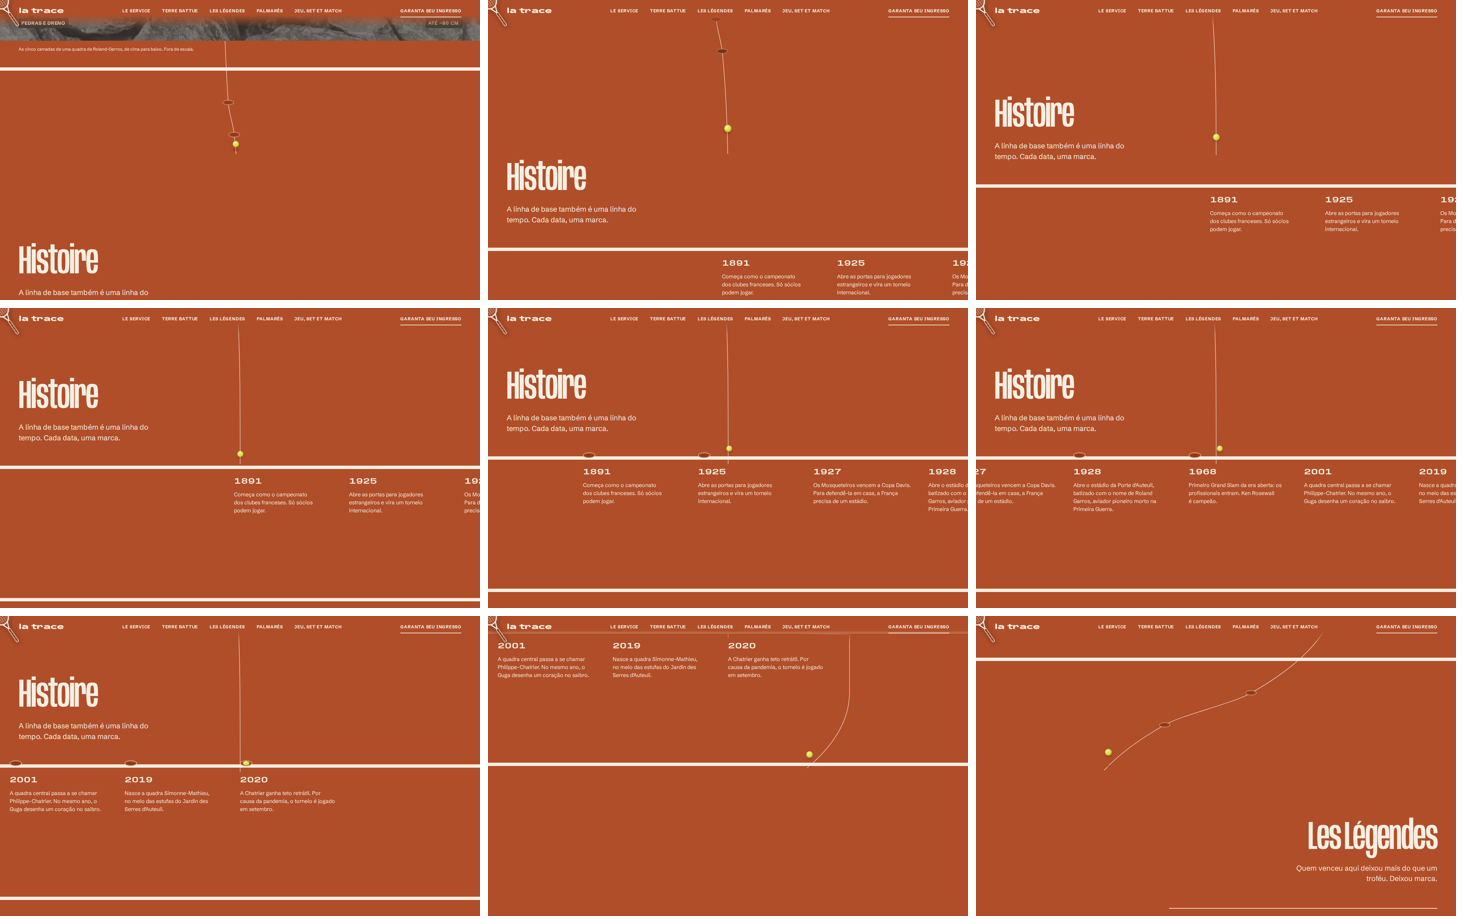
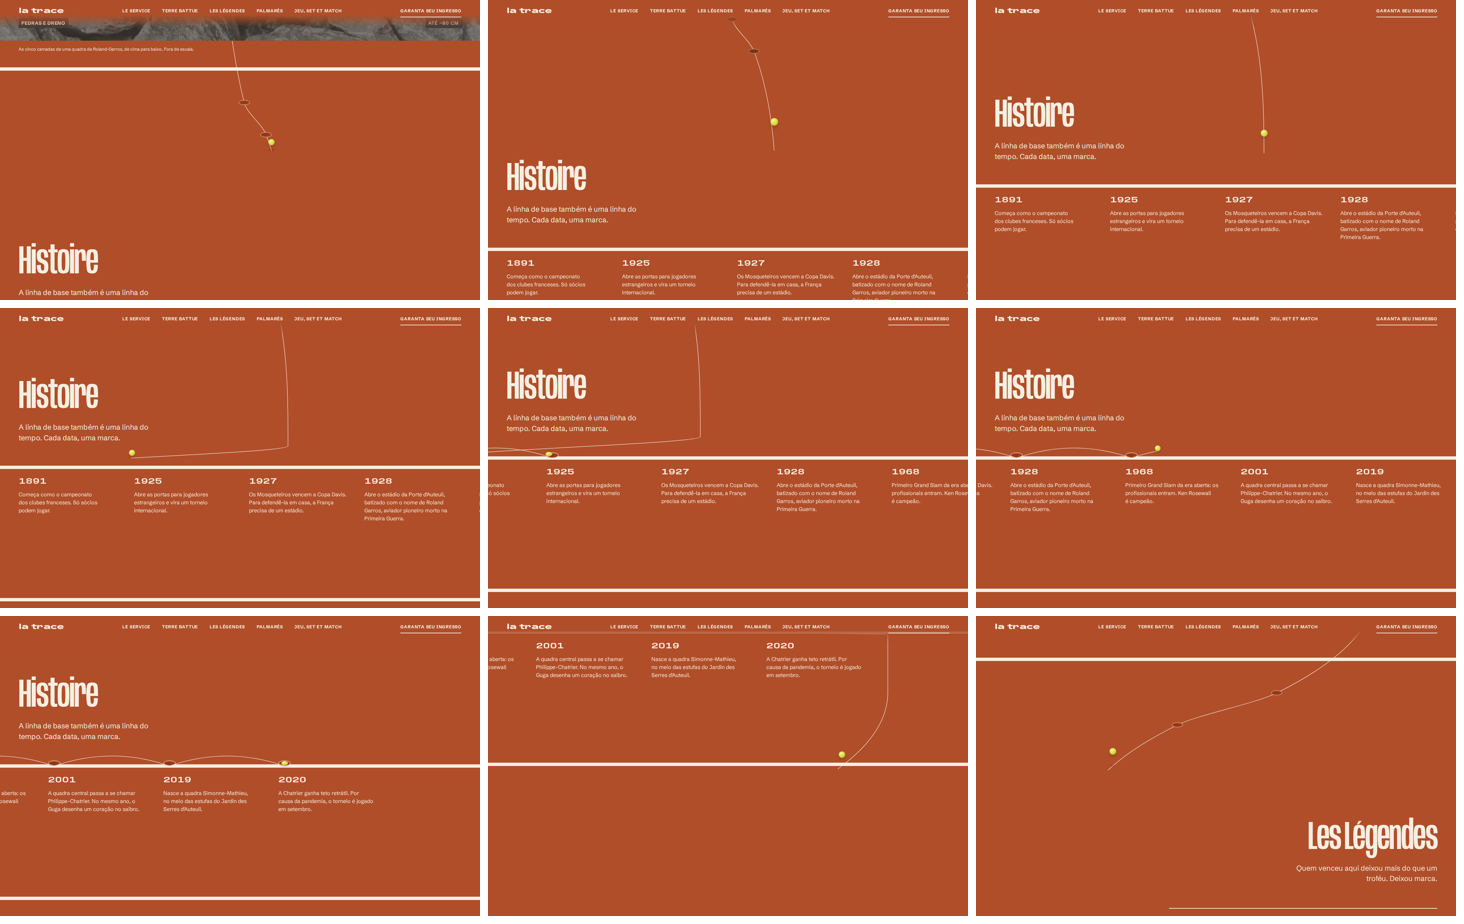
fix: Histoire volta ao layout antigo, com o rastro da chegada e dos pulos correndo junto com a linha

diff --git a/src/extras.js b/src/extras.js
@@ -28,10 +28,10 @@ function hopAlong(section, ball, dots, f, axis) {
 }
 
 // posição de um elemento nas coordenadas da seção (medidas de layout: não mudam com o translate da linha)
-function localOf(el, section) {
+function localOf(el, ancestor) {
   let x = 0;
   let y = 0;
-  for (let node = el; node && node !== section; node = node.offsetParent) {
+  for (let node = el; node && node !== ancestor; node = node.offsetParent) {
     x += node.offsetLeft;
     y += node.offsetTop;
   }
@@ -53,14 +53,42 @@ export function runTimeline(section) {
   ball.className = 'court__ball timeline__ball';
   ball.setAttribute('aria-hidden', 'true');
   ball.dataset.timelineBall = '';
-  // a entrada e a saída do traço, desenhadas por cima da cena (o traço do rali corre por trás dela)
+  // O rastro da bola na cena: a chegada, os arcos de cada pulo e a saída. Mora dentro da linha do tempo,
+  // então corre para a esquerda junto com as datas no scroll lateral (o traço do rali corre por trás da cena).
   const svgNS = 'http://www.w3.org/2000/svg';
   const trace = document.createElementNS(svgNS, 'svg');
   trace.classList.add('histoire__trace');
   trace.setAttribute('aria-hidden', 'true');
   const [entryPath, exitPath] = [0, 1].map(() => trace.appendChild(document.createElementNS(svgNS, 'path')));
-  section.append(trace, ball);
+  const hops = dots.slice(1).map(() => trace.appendChild(document.createElementNS(svgNS, 'path')));
+  track.append(trace);
+  section.append(ball);
   section.dataset.dock = '';
+
+  // os arcos dos pulos, nas coordenadas da linha: a mesma parábola que a bola faz em hopAlong
+  // (x linear e a altura 4t(1-t)·lift é uma Bézier quadrática com o controle a 2·lift)
+  let hopLengths = [];
+  function layoutHops(axis) {
+    const lift = axis === 'x' ? 30 : 18;
+    const c = dots.map((dot) => {
+      const d = localOf(dot, track);
+      return { x: d.x + d.width / 2, y: d.y };
+    });
+    hopLengths = hops.map((path, i) => {
+      const [a, b] = [c[i], c[i + 1]];
+      const control = axis === 'x' ? { x: (a.x + b.x) / 2, y: a.y - 2 * lift } : { x: a.x + 2 * lift, y: (a.y + b.y) / 2 };
+      path.setAttribute('d', `M${a.x},${a.y} Q${control.x},${control.y} ${b.x},${b.y}`);
+      return path.getTotalLength();
+    });
+    drawHops();
+  }
+  let drawnTo = 0; // o rastro dos pulos fica: só cresce
+  function drawHops() {
+    hops.forEach((path, i) => {
+      const length = hopLengths[i] || 0;
+      path.style.strokeDasharray = `${length * gsap.utils.clamp(0, 1, drawnTo - i)} ${length + 1}`;
+    });
+  }
 
   // as datas são marcas: nascem quando a bola toca nelas
   gsap.set(dots, { yPercent: -50, scale: 0 });
@@ -78,6 +106,10 @@ export function runTimeline(section) {
     const n = dots.length - 1;
     const clamped = gsap.utils.clamp(0, n, f);
     hopAlong(section, ball, dots, clamped, axis);
+    if (clamped > drawnTo) {
+      drawnTo = clamped;
+      drawHops();
+    }
     for (let i = reached + 1; i <= Math.floor(clamped + 0.06); i++) touch(i);
     reached = Math.max(reached, Math.floor(clamped + 0.06));
   }
@@ -87,16 +119,30 @@ export function runTimeline(section) {
     return { x: d.x + d.width / 2, y: d.y };
   };
   const headBottom = () => localOf(head, section).y + head.offsetHeight;
-  const overlay = { trace, entryPath, exitPath, ball };
+  // onde termina o texto do título e da frase (o bloco ocupa a largura toda; o texto, não)
+  const headTextRight = () => {
+    const origin = section.getBoundingClientRect();
+    const range = document.createRange();
+    range.selectNodeContents(head);
+    return Math.max(...[...range.getClientRects()].map((r) => r.right - origin.left));
+  };
+  const trackAt = () => localOf(track, section);
 
   gsap.matchMedia().add('(max-width: 720px)', () => {
     const lastIndex = dots.length - 1;
     section.rallyDock = {
       el: section,
-      overlay,
+      overlay: {
+        trace,
+        entryPath,
+        exitPath,
+        ball,
+        shift: { entry: () => ({ x: -trackAt().x, y: -trackAt().y }), exit: () => ({ x: -trackAt().x, y: -trackAt().y }) },
+      },
       frame: () => section,
       total: () => 0,
       points: () => {
+        layoutHops('y');
         const first = dotAt(0);
         const last = dotAt(lastIndex);
         const trackBox = localOf(track, section);
@@ -137,18 +183,28 @@ export function runTimeline(section) {
     const lastIndex = dots.length - 1;
     section.rallyDock = {
       el: section,
-      overlay,
+      overlay: {
+        trace,
+        entryPath,
+        exitPath,
+        ball,
+        // a saída é desenhada com a linha já no fim do scroll lateral
+        shift: { entry: () => ({ x: -trackAt().x, y: -trackAt().y }), exit: () => ({ x: -trackAt().x + distance(), y: -trackAt().y }) },
+      },
       frame: () => (section.parentElement.classList.contains('pin-spacer') ? section.parentElement : section),
       total: () => st.end - st.start,
       points: () => {
+        layoutHops('x');
         const first = dotAt(0);
         const last = dotAt(lastIndex);
         const lastItem = localOf(items[lastIndex], section);
         const endX = last.x - distance();
-        // sai pela linha, para a direita do texto da última data, e só então desce
+        // sai correndo pelo trecho de linha depois de 2020, para a direita do texto dela, e só então desce
         const outX = Math.min(section.clientWidth - 60, endX + items[lastIndex].offsetWidth);
+        // chega pela direita do título e da frase e desce pelo vão entre o texto e a linha até 1891
+        const inX = Math.min(section.clientWidth * 0.6, headTextRight() + 48);
         return {
-          entry: [{ x: first.x, y: headBottom() + 8 }, { ...first, contact: true }],
+          entry: [{ x: inX, y: headBottom() + 8 }, { ...first, contact: true }],
           exit: [{ x: endX, y: last.y, contact: true }, { x: outX, y: last.y + 8 }, { x: outX, y: lastItem.y + lastItem.height + 16 }],
         };
       },

diff --git a/src/rally.js b/src/rally.js
@@ -159,11 +159,14 @@ export function createRally({ container, start }) {
     });
 
     for (const d of docks) {
-      const { trace, entryPath, exitPath } = d.dock.overlay;
-      trace.setAttribute('viewBox', `0 0 ${d.dock.el.clientWidth} ${d.dock.el.clientHeight}`);
-      for (const [p, off] of [[entryPath, d.offIn], [exitPath, d.offOut]]) {
+      const { trace, entryPath, exitPath, shift } = d.dock.overlay;
+      const host = trace.parentElement;
+      trace.setAttribute('viewBox', `0 0 ${host.offsetWidth} ${host.offsetHeight}`);
+      // o desenho pode morar num elemento que se move dentro da cena (a linha do tempo): shift leva das
+      // coordenadas da cena para as dele, na entrada e na saída
+      for (const [p, off, s] of [[entryPath, d.offIn, shift.entry()], [exitPath, d.offOut, shift.exit()]]) {
         p.setAttribute('d', rally.d);
-        p.setAttribute('transform', `translate(0 ${-off})`);
+        p.setAttribute('transform', `translate(${s.x} ${s.y - off})`);
       }
       d.lin = lengthForY(d.inY);
       d.lout = lengthForY(d.outY);

diff --git a/src/style.css b/src/style.css
@@ -671,9 +671,8 @@ h2 {
   display: flex;
   width: max-content;
   margin: 0;
-  /* a primeira data começa no meio da tela, onde a bola pousa; a última termina no meio também,
-     com espaço à direita para a bola sair */
-  padding: 0 max(var(--gutter), calc(50vw - var(--step))) 0 calc(50vw - var(--gutter) - 1.15rem);
+  /* depois da última data a linha continua um trecho, por onde a bola sai */
+  padding: 0 max(var(--gutter), 18vw) 0 0;
   list-style: none;
   will-change: transform;
 }

diff --git a/processo/prompts/2026-10-10-31-histoire-ajuste.md b/processo/prompts/2026-10-10-31-histoire-ajuste.md
@@ -1,0 +1,29 @@
+# Prompt 31 · ajuste da Histoire (ticket 23, segunda versão)
+
+**Data:** 2026-10-10 · **Ferramenta:** Claude Code (Claude Opus 5.5)
+
+## O que eu pedi (literal)
+> nao gostei de como ficou a Histoire, gostava qde como era ante, so queria mudar que a bola chegasse ate la, e saisse de la, com seu rastro ficando para tras juto ao scroll lateral
+
+## Perguntas da IA e minhas respostas
+- **O que volta a ser como antes?** Só **1891 na esquerda** (o layout antigo). As datas que nascem como marcas e a espera na 1ª e na última data ficam.
+- **O que deixa rastro?** **A chegada e os pulos** (recomendação da IA): o traço da chegada e um arco de giz a cada pulo, tudo correndo junto com a linha.
+- **Por onde a bola sai depois de 2020?** **Um pouco mais de linha** (recomendação da IA): a linha continua um trecho depois de 2020, por onde a bola sai.
+
+## O que a IA fez
+- **Layout:** voltou ao de antes. 1891 fica à esquerda, embaixo do título, e a linha começa como era. No fim, a linha ganhou um trecho a mais (18% da tela) depois de 2020.
+- **O rastro mora dentro da linha do tempo:**
+  - a chegada (o traço desce pela direita do título e varre o vão até 1891) e os arcos dos pulos correm para a esquerda **junto com as datas** no scroll lateral;
+  - cada arco tem a mesma parábola que a bola faz no pulo. Os arcos ficam desenhados depois que a bola passa, como as marcas.
+- **Saída:** em 2020 a bola corre pelo trecho de linha a mais, passa à direita do texto, desce, e o traço segue até Les Légendes.
+- **No celular:** a mesma ideia na linha vertical, com os arcos dos pulos ao lado da linha.
+- **Testes:**
+  - os 3 da Histoire continuam valendo e passam sem mudança: uma bola só, parada nas pontas, e o traço sem cruzar texto;
+  - total: 50 E2E e 20 unitários.
+- **Fluidez:** no trecho da Histoire, 60 fps a 4x de CPU.
+- Evidências refeitas em `processo/evidencias/23/` (`desktop-sequencia.png`, `mobile-sequencia.png`).
+
+## Minha avaliação
+<!-- Preencher -->
+
+-

diff --git a/processo/correcoes-de-rota.md b/processo/correcoes-de-rota.md
@@ -160,3 +160,12 @@ Registro do que mudou de direção, saiu errado ou foi corrigido ao revisar a en
 - **O que a IA fez:** sem movimento, a Histoire não prende e as datas ficam em várias linhas, então o caminho "entrar pela 1ª e sair pela última" não existe. Nesse modo, o traço segue passando por trás da seção, como na rodada 2, e as datas já aparecem como marcas feitas.
 - **Por quê:** é um estado estático que continua legível e sem duas bolas. Inventar uma bola parada no meio de uma grade de datas exigiria um caminho só para esse modo.
 - **Fica para eu revisar** se quiser a bola visível ali.
+
+## #29 · Não gostei da Histoire nova e pedi para voltar ao layout antigo (2026-10-10)
+- **O que a IA tinha feito no ticket 23:** levou 1891 para o meio da tela, para o traço descer direto até a data, e os pulos não deixavam rastro.
+- **Minha reação:** "gostava de como era antes". Eu só queria que a bola chegasse e saísse da linha do tempo, com o rastro ficando para trás junto com o scroll lateral.
+- **Correção:**
+  - 1891 voltou para a esquerda;
+  - o traço da chegada e um arco a cada pulo agora moram dentro da linha do tempo e correm com ela;
+  - a linha ganhou um trecho a mais depois de 2020, para a bola sair.
+- **Lição:** a IA mudou o layout para facilitar a geometria do traço, sem perguntar. Uma mudança de layout que não foi pedida precisa ser perguntada antes.
